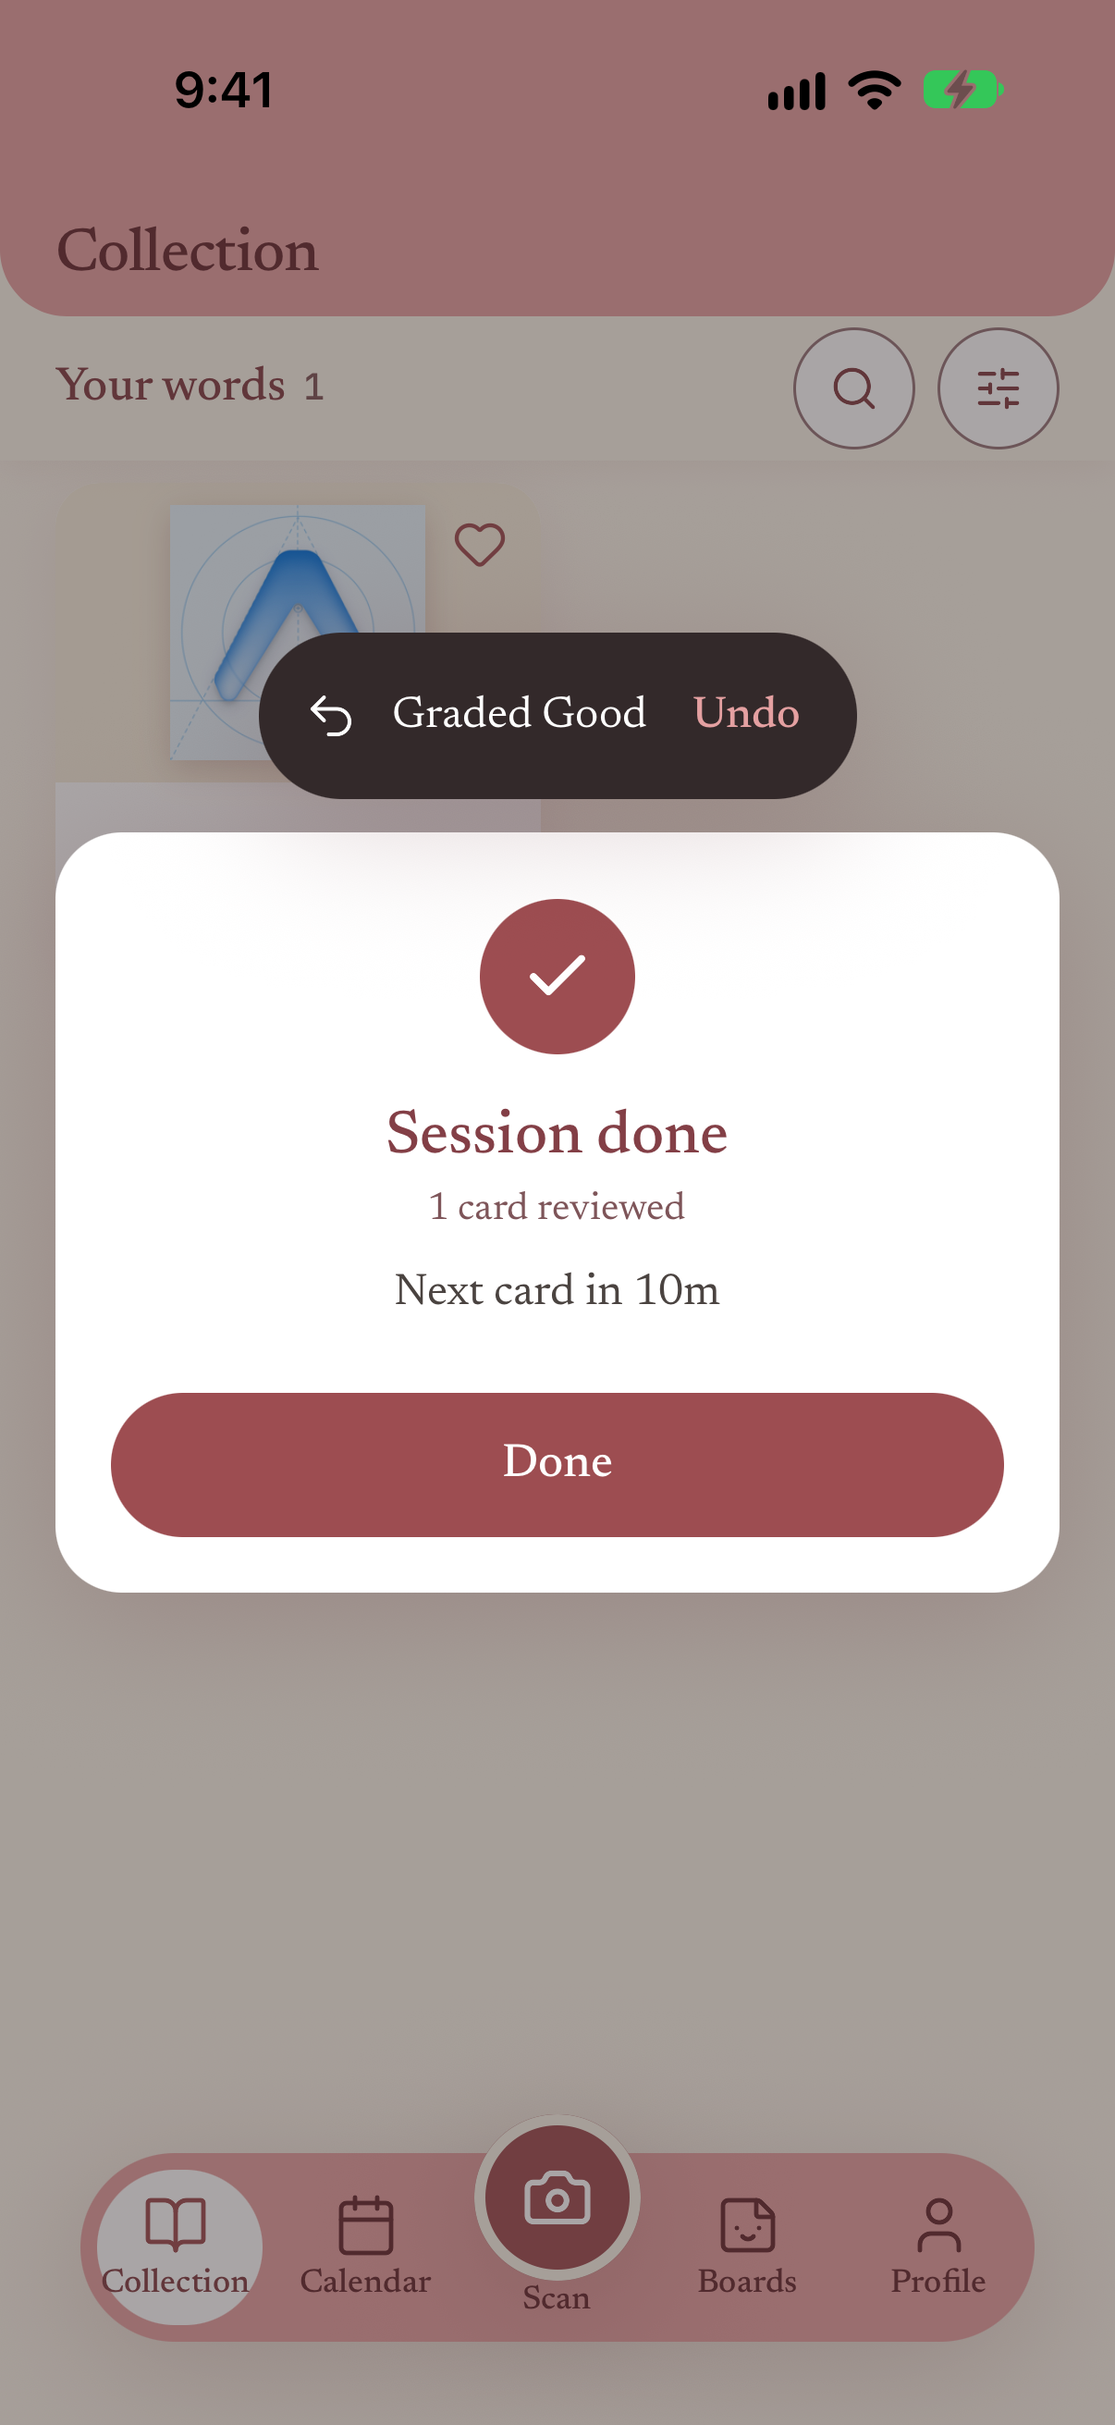
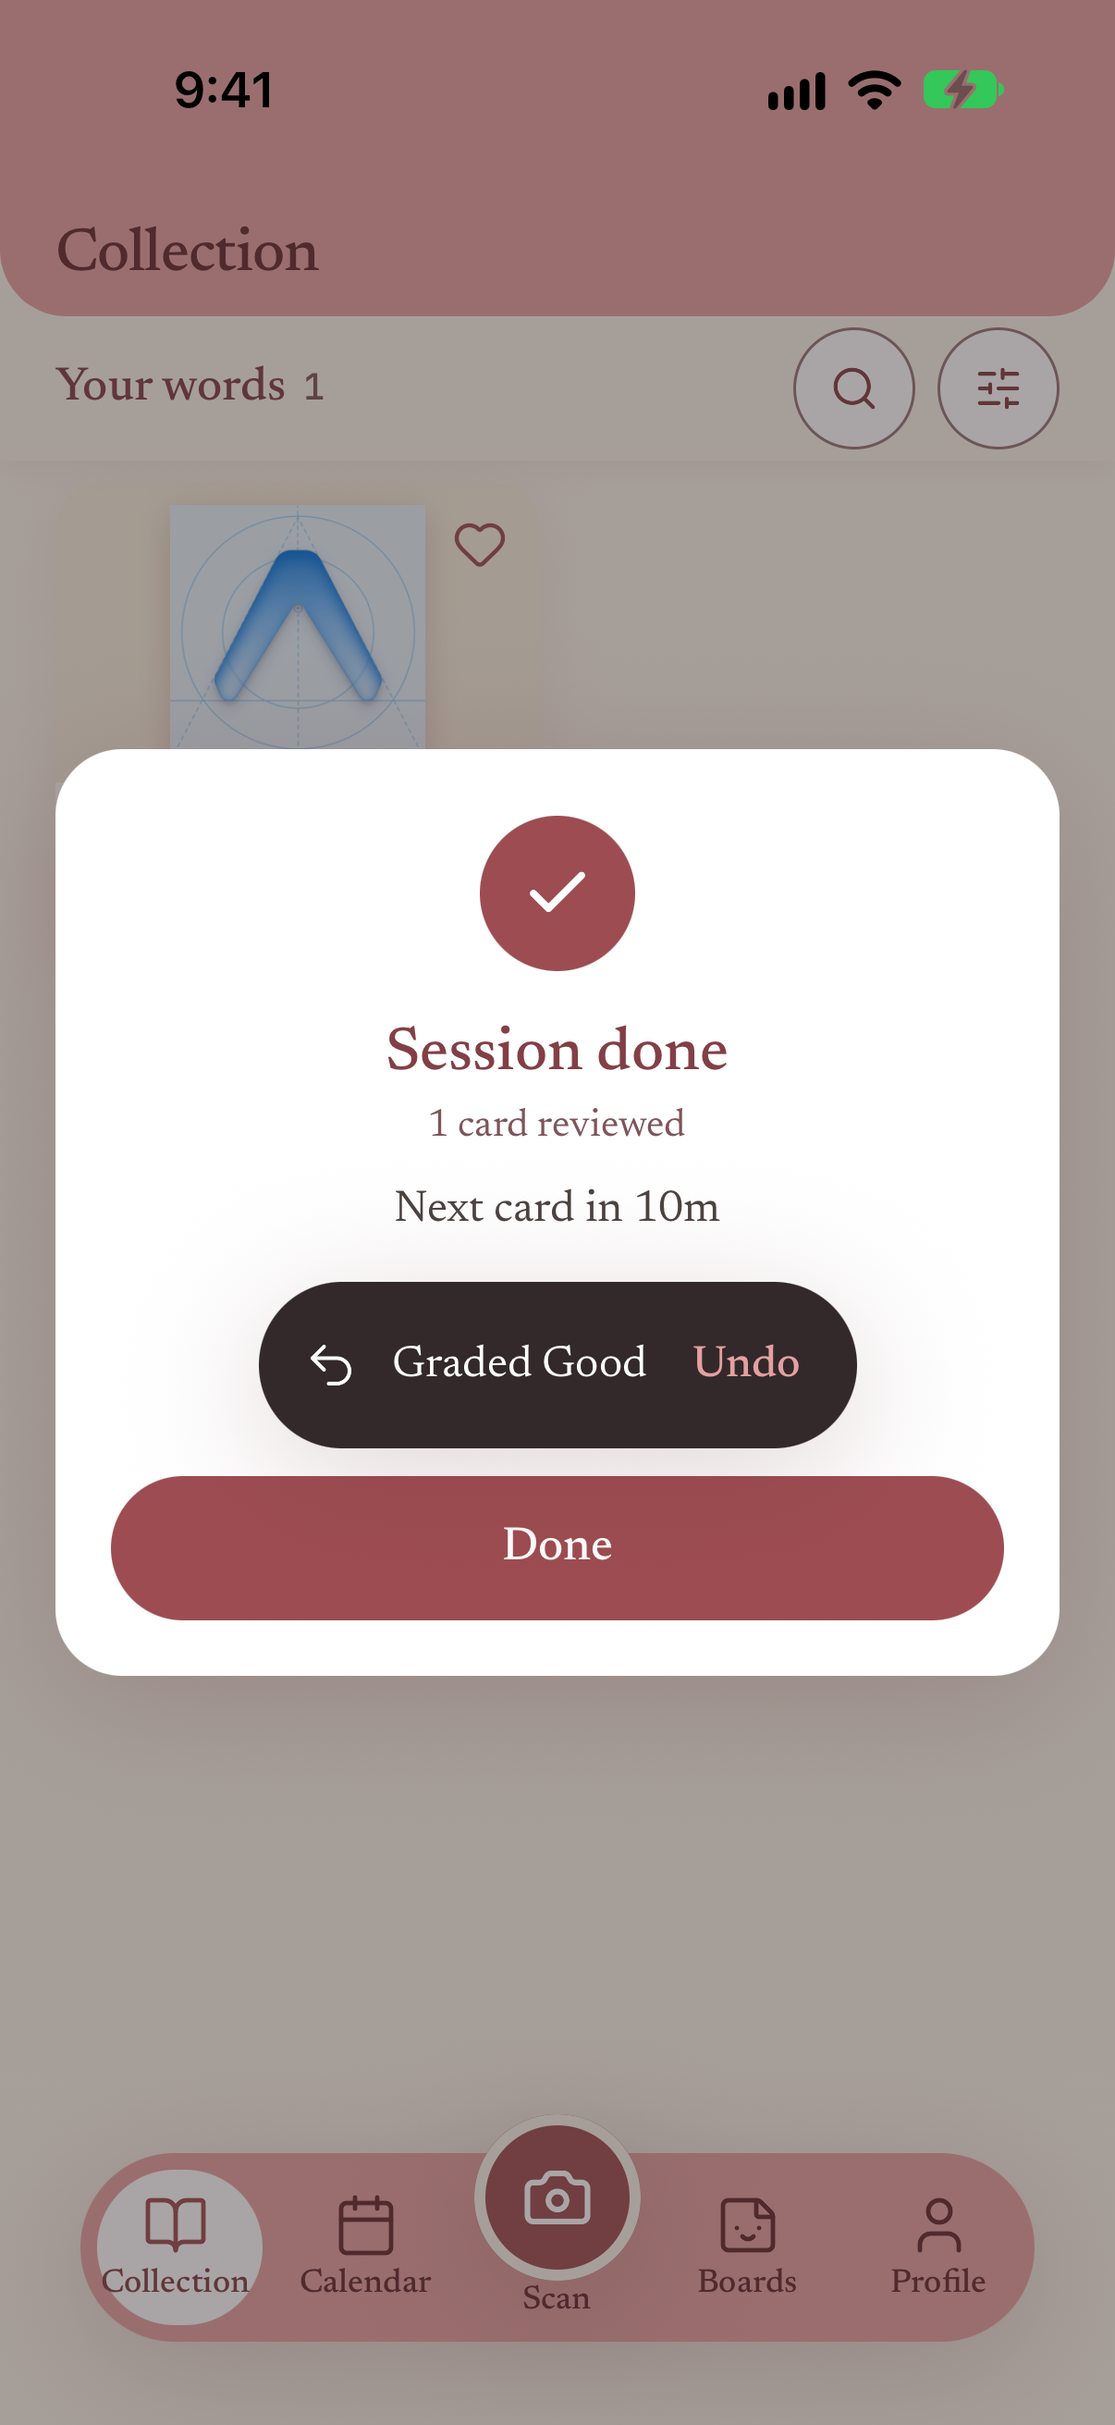
Polish: re-review fixes (toast placement, day band, password field, tab fade)

Changed region(s): [[0.0307, 0.2471, 0.9511, 0.7105]]

diff --git a/app/day/[date].tsx b/app/day/[date].tsx
@@ -12,12 +12,15 @@ import { useSignedUrls } from '@/hooks/useSignedUrls';
 import { listImagePath } from '@/lib/thumbnails';
 import StickerImageFallback from '@/components/StickerImageFallback';
 import Button from '@/components/ui/Button';
+import IconButton from '@/components/ui/IconButton';
+import RoseBand from '@/components/RoseBand';
 import { useToast } from '@/components/ToastProvider';
 import { haptic } from '@/lib/haptics';
 import StudyCard from '@/components/StudyCard';
 import { colors, e1, fonts, radii, stickerShadow, wordFontFor, MIN_TAP, type } from '@/constants/theme';
 
-const DATE_FORMAT = new Intl.DateTimeFormat('en-US', { weekday: 'long', month: 'long', day: 'numeric', year: 'numeric' });
+// Short enough for the band's one-line 30pt title.
+const DATE_FORMAT = new Intl.DateTimeFormat('en-US', { weekday: 'short', month: 'long', day: 'numeric' });
 
 export default function DayScreen() {
   const { date } = useLocalSearchParams<{ date: string }>();
@@ -101,23 +104,15 @@ export default function DayScreen() {
   }, [date]);
 
   return (
-    <View style={[styles.container, { paddingTop: insets.top }]}>
-      <View style={styles.header}>
-        <Pressable
-          onPress={() => router.back()}
-          style={styles.backBtn}
-          accessibilityRole="button"
-          accessibilityLabel="Go back"
-        >
-          <ChevronLeft size={24} strokeWidth={1.75} color={colors.inkDark} />
-        </Pressable>
-        <View style={styles.headerText}>
-          <Text style={styles.title} numberOfLines={2} accessibilityRole="header" maxFontSizeMultiplier={1.3}>{formattedDate}</Text>
-          <Text style={styles.subtitle} maxFontSizeMultiplier={2}>
-            {loadError ? "Couldn't load this day" : `${stickers.length} found`}
-          </Text>
-        </View>
-      </View>
+    <View style={styles.container}>
+      <RoseBand
+        title={formattedDate}
+        leading={
+          <IconButton onPress={() => router.back()} label="Go back">
+            <ChevronLeft size={22} strokeWidth={1.75} color={colors.inkDark} />
+          </IconButton>
+        }
+      />
 
       {loading ? (
         <ActivityIndicator style={styles.loader} color={colors.terra} size="large" />
@@ -130,6 +125,7 @@ export default function DayScreen() {
       ) : (
         <FlatList
           data={stickers}
+          ListHeaderComponent={<Text style={styles.count} maxFontSizeMultiplier={2}>{`${stickers.length} found`}</Text>}
           keyExtractor={s => s.id}
           contentContainerStyle={[styles.list, { paddingBottom: insets.bottom + 32 }]}
           refreshControl={<RefreshControl refreshing={refreshing} onRefresh={() => { setRefreshing(true); fetchStickers(); }} tintColor={colors.terra} />}
@@ -200,20 +196,13 @@ export default function DayScreen() {
 
 const styles = StyleSheet.create({
   container: { flex: 1, backgroundColor: colors.sky },
-  header: { flexDirection: 'row', alignItems: 'center', gap: 12, paddingHorizontal: 20, paddingTop: 8, paddingBottom: 12 },
-  headerText: { flex: 1 },
-  backBtn: {
-    width: MIN_TAP, height: MIN_TAP, borderRadius: radii.full, backgroundColor: colors.card,
-    alignItems: 'center', justifyContent: 'center', ...e1,
-  },
-  title: { ...type.h2, color: colors.inkDark },
-  subtitle: { ...type.small },
+  count: { ...type.small, marginBottom: 0 },
   loader: { flex: 1 },
   emptyWrap: { alignItems: 'center', paddingHorizontal: 32, paddingTop: 48, gap: 12 },
   errorWrap: { flex: 1, alignItems: 'center', justifyContent: 'center', paddingHorizontal: 32, gap: 12 },
   errorTitle: { ...type.h2, textAlign: 'center' },
   errorBody: { ...type.body, color: colors.inkLight, textAlign: 'center' },
-  list: { paddingHorizontal: 20, paddingTop: 4, gap: 16 },
+  list: { paddingHorizontal: 20, paddingTop: 16, gap: 16 },
   card: { backgroundColor: colors.card, borderRadius: radii.lg, overflow: 'hidden', ...e1 },
   pressed: { opacity: 0.94 },
   well: { height: 200, backgroundColor: colors.sand, alignItems: 'center', justifyContent: 'center' },

diff --git a/components/ReviewSummary.tsx b/components/ReviewSummary.tsx
@@ -31,8 +31,9 @@ export default function ReviewSummary({ stats, early, nextDue, revisit, onDone, 
   const { reduced } = useMotion();
   const pop = useRef(new Animated.Value(0)).current;
   const [opened, setOpened] = useState<Sticker | null>(null);
-  // Where the card sits, so the Undo toast can ride just above it, never under the tab bar.
-  const [box, setBox] = useState<{ h: number; cardTop: number } | null>(null);
+  // Where Done sits, so the Undo toast docks in the slot just above it: inside the
+  // card, over no text and no sticker, and nowhere near the tab bar.
+  const [box, setBox] = useState<{ h: number; cardTop: number; doneY: number } | null>(null);
   const shown = !!stats;
 
   useEffect(() => {
@@ -52,7 +53,7 @@ export default function ReviewSummary({ stats, early, nextDue, revisit, onDone, 
           The scrim is a sibling behind the card, not its parent: an accessible
           button hides everything inside it from VoiceOver, which left the
           title, the counts and Done unreachable. */}
-      <View style={styles.overlay} onLayout={e => setBox(b => ({ h: e.nativeEvent.layout.height, cardTop: b?.cardTop ?? 0 }))}>
+      <View style={styles.overlay} onLayout={e => setBox(b => ({ h: e.nativeEvent.layout.height, cardTop: b?.cardTop ?? 0, doneY: b?.doneY ?? 0 }))}>
         <Pressable
           style={StyleSheet.absoluteFill}
           onPress={onDone}
@@ -60,7 +61,7 @@ export default function ReviewSummary({ stats, early, nextDue, revisit, onDone, 
           accessibilityLabel="Close the session summary"
         />
         <Animated.View
-          onLayout={e => { const y = e.nativeEvent.layout.y; setBox(b => (b && b.cardTop === y ? b : { h: b?.h ?? 0, cardTop: y })); }}
+          onLayout={e => { const y = e.nativeEvent.layout.y; setBox(b => (b && b.cardTop === y ? b : { h: b?.h ?? 0, cardTop: y, doneY: b?.doneY ?? 0 })); }}
           style={[styles.card, { opacity: pop, transform: [{ scale: reduced ? 1 : pop.interpolate({ inputRange: [0, 1], outputRange: [0.96, 1] }) }] }]}
         >
           <View style={styles.badge}>
@@ -105,10 +106,17 @@ export default function ReviewSummary({ stats, early, nextDue, revisit, onDone, 
             </View>
           )}
 
-          <Button label="Done" onPress={onDone} style={styles.done} />
+          {/* Reserved: the grade Undo toast docks here, above Done. */}
+          <View style={styles.toastSlot} />
+          <View
+            style={styles.doneWrap}
+            onLayout={e => { const y = e.nativeEvent.layout.y; setBox(b => (b && b.doneY === y ? b : { h: b?.h ?? 0, cardTop: b?.cardTop ?? 0, doneY: y })); }}
+          >
+            <Button label="Done" onPress={onDone} />
+          </View>
         </Animated.View>
 
-        <ToastLayer bottom={box && box.h && box.cardTop ? box.h - box.cardTop + 12 : undefined} />
+        <ToastLayer bottom={box && box.h && box.cardTop && box.doneY ? box.h - (box.cardTop + box.doneY) + 10 : undefined} />
       </View>
 
       <StudyCard
@@ -161,5 +169,6 @@ const styles = StyleSheet.create({
   rowWord: { flexShrink: 0, maxWidth: '50%' },
   rowMeaning: { ...type.small, flex: 1 },
 
-  done: { alignSelf: 'stretch', marginTop: spacing.lg },
+  toastSlot: { height: 84 },
+  doneWrap: { alignSelf: 'stretch' },
 });

diff --git a/app/(tabs)/_layout.tsx b/app/(tabs)/_layout.tsx
@@ -3,6 +3,7 @@ import { View, Text, Pressable, StyleSheet, Keyboard } from 'react-native';
 import { Tabs } from 'expo-router';
 import type { BottomTabBarProps } from '@react-navigation/bottom-tabs';
 import { useSafeAreaInsets } from 'react-native-safe-area-context';
+import Svg, { Defs, LinearGradient, Rect, Stop } from 'react-native-svg';
 import { BookOpen, Calendar, Camera, Sticker as StickerIcon, User } from 'lucide-react-native';
 import type { LucideIcon } from 'lucide-react-native';
 import { haptic } from '@/lib/haptics';
@@ -34,6 +35,8 @@ const SLOTS: Slot[] = [
 
 /** Gap between the pill's edge and the active highlight; its radius is the pill's minus this. */
 const HIGHLIGHT_RING = 6;
+/** Height of the dissolve above the pill. */
+const TAB_BAR_FADE = 32;
 
 function PillTabBar({ state, navigation }: BottomTabBarProps) {
   const insets = useSafeAreaInsets();
@@ -61,9 +64,27 @@ function PillTabBar({ state, navigation }: BottomTabBarProps) {
     }
   };
 
+  const fadeHeight = tabBarBottom(insets.bottom) + TAB_BAR_HEIGHT + TAB_BAR_FADE;
   return (
-    // The wrapper is the overflow-visible one: the pill below has the rose
-    // fill, the disc is a sibling that overhangs it.
+    <>
+    {/* Page-colour fade behind and above the pill, so scrolled content dissolves
+        before it reaches the bar. Not touchable. Not on the camera. */}
+    {focusedName !== 'scan' && (
+      <View pointerEvents="none" style={[styles.fade, { height: fadeHeight }]}>
+        <Svg width="100%" height={fadeHeight} preserveAspectRatio="none">
+          <Defs>
+            <LinearGradient id="tabFade" x1="0" y1="0" x2="0" y2="1">
+              <Stop offset="0" stopColor={colors.sky} stopOpacity="0" />
+              <Stop offset={TAB_BAR_FADE / fadeHeight + 0.1} stopColor={colors.sky} stopOpacity="1" />
+              <Stop offset="1" stopColor={colors.sky} stopOpacity="1" />
+            </LinearGradient>
+          </Defs>
+          <Rect x="0" y="0" width="100%" height={fadeHeight} fill="url(#tabFade)" />
+        </Svg>
+      </View>
+    )}
+    {/* The wrapper is the overflow-visible one: the pill below has the rose
+        fill, the disc is a sibling that overhangs it. */}
     <View
       pointerEvents="box-none"
       style={[styles.wrap, { bottom: tabBarBottom(insets.bottom) }]}
@@ -126,6 +147,7 @@ function PillTabBar({ state, navigation }: BottomTabBarProps) {
         })}
       </View>
     </View>
+    </>
   );
 }
 
@@ -157,6 +179,7 @@ export default function TabLayout() {
 }
 
 const styles = StyleSheet.create({
+  fade: { position: 'absolute', left: 0, right: 0, bottom: 0 },
   wrap: {
     position: 'absolute',
     left: 0,

diff --git a/components/BoardCanvas.tsx b/components/BoardCanvas.tsx
@@ -15,6 +15,8 @@ import CutoutSticker from '@/components/CutoutSticker';
 import { colors, wordFontFor } from '@/constants/theme';
 
 const LONG_PRESS_MS = 400;
+// Stickers are drawn at least this far from the canvas edge so none clip.
+const EDGE_INSET = 16;
 const TRASH_SIZE = 60;
 const TRASH_MARGIN = 14;
 
@@ -132,20 +134,23 @@ function CanvasTile({
 }) {
   const { reduced } = useMotion();
   const { width: tileWidth, height: tileHeight } = useMemo(() => getTileSize(item.sticker_id), [item.sticker_id]);
-  const translateX = useSharedValue(item.x);
-  const translateY = useSharedValue(item.y);
-  const startX = useSharedValue(item.x);
-  const startY = useSharedValue(item.y);
+  // Drawn at least EDGE_INSET from the canvas edge. This clamps at render only:
+  // stored positions are never rewritten until the user moves the sticker.
+  const maxX = Math.max(EDGE_INSET, canvasSize.width - tileWidth - EDGE_INSET);
+  const maxY = Math.max(EDGE_INSET, canvasSize.height - tileHeight - EDGE_INSET);
+  const drawnX = clamp(item.x, EDGE_INSET, maxX);
+  const drawnY = clamp(item.y, EDGE_INSET, maxY);
+  const translateX = useSharedValue(drawnX);
+  const translateY = useSharedValue(drawnY);
+  const startX = useSharedValue(drawnX);
+  const startY = useSharedValue(drawnY);
 
-  // Re-sync the shared position if this item's stored coordinates change
-  // from outside a gesture (e.g. a fresh fetch after re-opening the board).
+  // Re-sync the shared position if this item's stored coordinates (or the
+  // canvas) change from outside a gesture, e.g. a fresh fetch after re-opening the board.
   useEffect(() => {
-    translateX.value = item.x;
-    translateY.value = item.y;
-  }, [item.x, item.y]);
-
-  const maxX = Math.max(0, canvasSize.width - tileWidth);
-  const maxY = Math.max(0, canvasSize.height - tileHeight);
+    translateX.value = drawnX;
+    translateY.value = drawnY;
+  }, [drawnX, drawnY]);
 
   const handleTap = () => onSelect(item.sticker);
   const handleMove = (x: number, y: number) => onMove(item.sticker_id, x, y);
@@ -168,8 +173,8 @@ function CanvasTile({
       runOnJS(handlePickup)();
     })
     .onUpdate((e) => {
-      translateX.value = clamp(startX.value + e.translationX, 0, maxX);
-      translateY.value = clamp(startY.value + e.translationY, 0, maxY);
+      translateX.value = clamp(startX.value + e.translationX, EDGE_INSET, maxX);
+      translateY.value = clamp(startY.value + e.translationY, EDGE_INSET, maxY);
       const tileCenterX = translateX.value + tileWidth / 2;
       const tileCenterY = translateY.value + tileHeight / 2;
       const trashCenterX = trashBounds.left + trashBounds.size / 2;

diff --git a/components/CardDetail.tsx b/components/CardDetail.tsx
@@ -230,15 +230,16 @@ export default function CardDetail({
       {!!onTest && !embedded && (
         <View style={[styles.sticky, { paddingBottom: insets.bottom + 12 }]} pointerEvents="box-none">
           {/* A short fade so content slides under the button instead of being sliced by it. */}
-          <Svg style={styles.fade} width="100%" height={FADE_HEIGHT} preserveAspectRatio="none" pointerEvents="none">
+          <View style={styles.fade} pointerEvents="none"><Svg width="100%" height="100%" preserveAspectRatio="none">
             <Defs>
               <LinearGradient id="testMeFade" x1="0" y1="0" x2="0" y2="1">
                 <Stop offset="0" stopColor={colors.sky} stopOpacity="0" />
+                <Stop offset="0.7" stopColor={colors.sky} stopOpacity="1" />
                 <Stop offset="1" stopColor={colors.sky} stopOpacity="1" />
               </LinearGradient>
             </Defs>
-            <Rect x="0" y="0" width="100%" height={FADE_HEIGHT} fill="url(#testMeFade)" />
-          </Svg>
+            <Rect x="0" y="0" width="100%" height="100%" fill="url(#testMeFade)" />
+          </Svg></View>
           <Button label="Test me" onPress={onTest} style={styles.testMe} />
         </View>
       )}
@@ -247,7 +248,7 @@ export default function CardDetail({
 }
 
 const TEST_ME_HEIGHT = 52; // Button's height
-const FADE_HEIGHT = 28;
+const FADE_HEIGHT = 60;
 
 function Disc({ onPress, label, children, selected }: {
   onPress: () => void; label: string; children: React.ReactNode; selected?: boolean;
@@ -421,7 +422,7 @@ const styles = StyleSheet.create({
     flexDirection: 'row', justifyContent: 'space-between', alignItems: 'center',
   },
   topRight: { flexDirection: 'row', gap: spacing.sm },
-  fade: { position: 'absolute', left: 0, right: 0, top: -FADE_HEIGHT },
+  fade: { position: 'absolute', left: 0, right: 0, top: -FADE_HEIGHT, height: FADE_HEIGHT },
   sticky: { position: 'absolute', left: 0, right: 0, bottom: 0, paddingHorizontal: 20, paddingTop: 12, backgroundColor: colors.sky },
   testMe: { alignSelf: 'stretch' },
 

diff --git a/app/(auth)/sign-in.tsx b/app/(auth)/sign-in.tsx
@@ -24,8 +24,8 @@ export default function SignInScreen() {
   // So the email field's return key can hand over instead of dismissing the
   // keyboard and leaving the password box untouched two rows below it.
   const passwordRef = useRef<TextInput>(null);
-  // After a wrong attempt the password stays, focused with its text selected, so retyping replaces it.
-  const [selection, setSelection] = useState<{ start: number; end: number } | undefined>();
+  // After a wrong attempt the password stays and the field is focused (cursor at the
+  // end; no select-all, which paints the masked dots as a solid block).
 
   const isFormValid = isEmail(email) && password.length > 0;
   const emailError = emailTouched && email.length > 0 && !isEmail(email) ? 'Enter a valid email address.' : null;
@@ -43,7 +43,6 @@ export default function SignInScreen() {
       if (error.message === 'Email not confirmed') setUnconfirmed(true);
       else {
         setIssue(signInIssue(error));
-        setSelection({ start: 0, end: password.length });
         // Next frame: the field is still disabled-looking while `loading` clears.
         setTimeout(() => passwordRef.current?.focus(), 50);
       }
@@ -98,8 +97,7 @@ export default function SignInScreen() {
         ref={passwordRef}
         placeholder="Password"
         value={password}
-        onChangeText={(t) => { setPassword(t); setSelection(undefined); if (issue) setIssue(null); }}
-        selection={selection}
+        onChangeText={(t) => { setPassword(t); if (issue) setIssue(null); }}
         error={issue?.field === 'password' ? issue.message : null}
         textContentType="password"
         autoComplete="current-password"

diff --git a/app/(tabs)/calendar.tsx b/app/(tabs)/calendar.tsx
@@ -31,12 +31,12 @@ const MONTH_FORMAT = new Intl.DateTimeFormat('en-US', { month: 'long' });
 const DAY_FORMAT = new Intl.DateTimeFormat('en-US', { weekday: 'short', day: 'numeric', month: 'long' });
 const A11Y_DAY_FORMAT = new Intl.DateTimeFormat('en-US', { day: 'numeric', month: 'long' });
 
-// C-look 4 "Calendar cell": 52 tall, number in mono 13, a find shows a 20pt
+// C-look 4 "Calendar cell": 52 tall (58 after the final review, so the badge clears the thumbnail), number in mono 13, a find shows a 20pt
 // thumbnail below, a review shows a 6pt dot. The month card overlaps the 132pt
 // band by 20.
 const GUTTER = 20;
 const CARD_PAD_H = 16;
-const CELL_HEIGHT = 52;
+const CELL_HEIGHT = 58;
 const THUMB = 20;
 
 const dateKey = (iso: string) => dateKeyOf(new Date(iso));

diff --git a/app/onboarding.tsx b/app/onboarding.tsx
@@ -102,7 +102,7 @@ function Visual({ page }: { page: number }) {
 const MINI_GRADES = [
   { label: 'Again', sub: '1m', bg: colors.againTint, fg: colors.error, flex: 1.4 },
   { label: 'Hard', sub: '6m', bg: colors.goldTint, fg: colors.gold, flex: 1 },
-  { label: 'Good', sub: '1d', bg: colors.success, fg: colors.white, flex: 1.4 },
+  { label: 'Good', sub: '10m', bg: colors.success, fg: colors.white, flex: 1.4 },
   { label: 'Easy', sub: '4d', bg: colors.successLight, fg: colors.success, flex: 1 },
 ];
 
